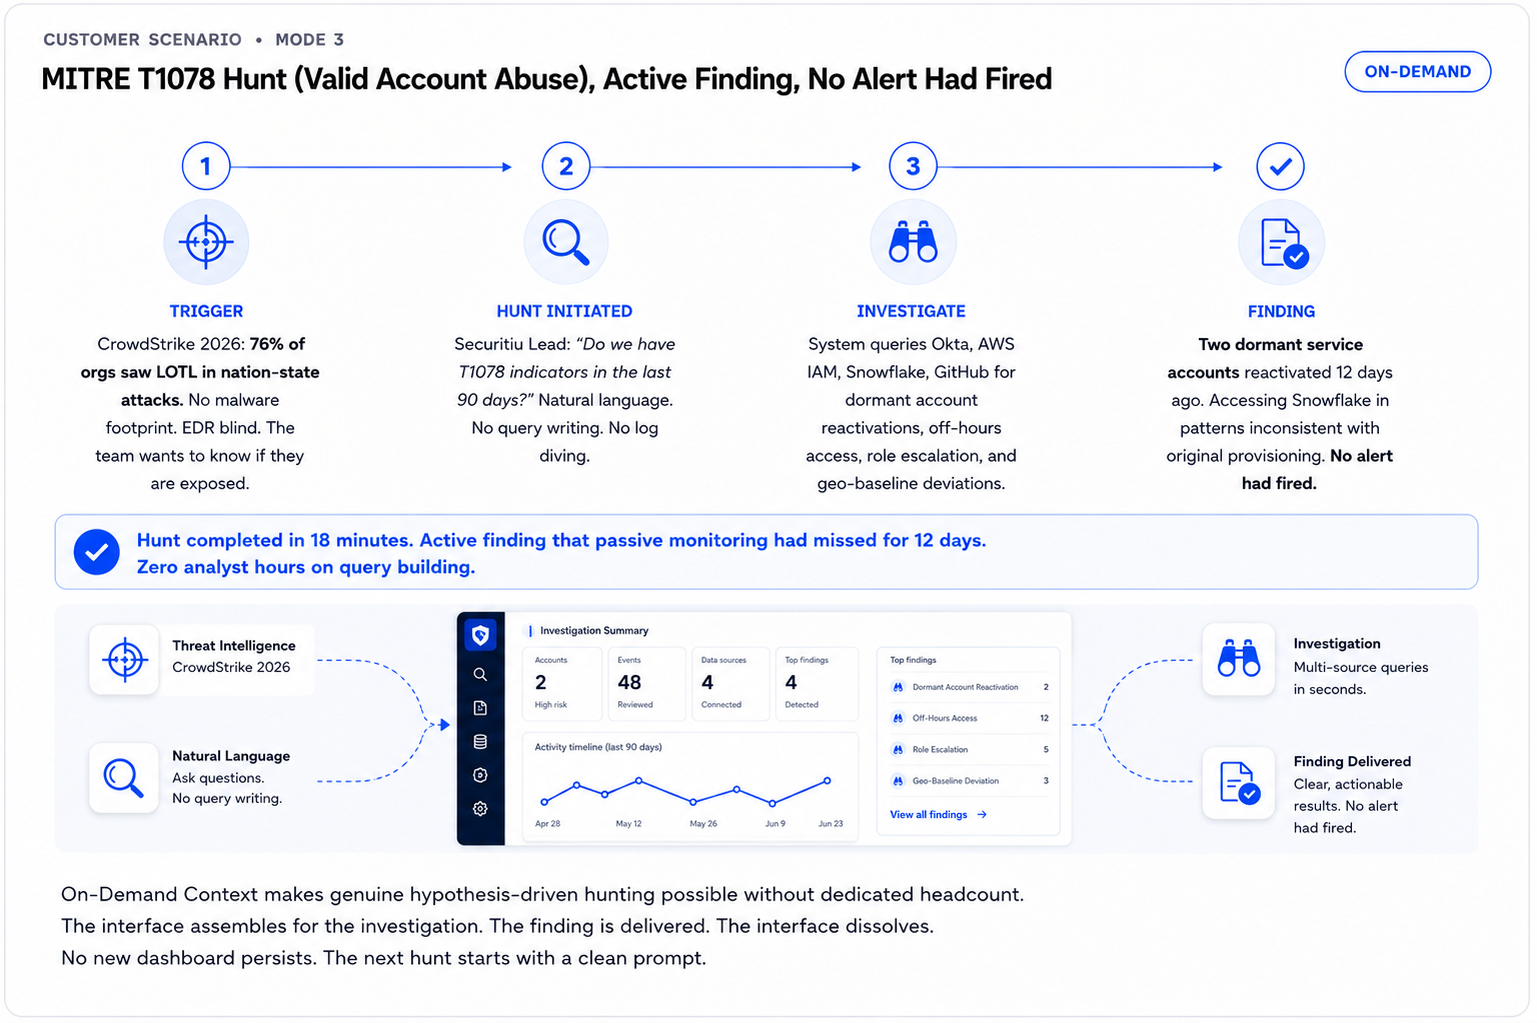
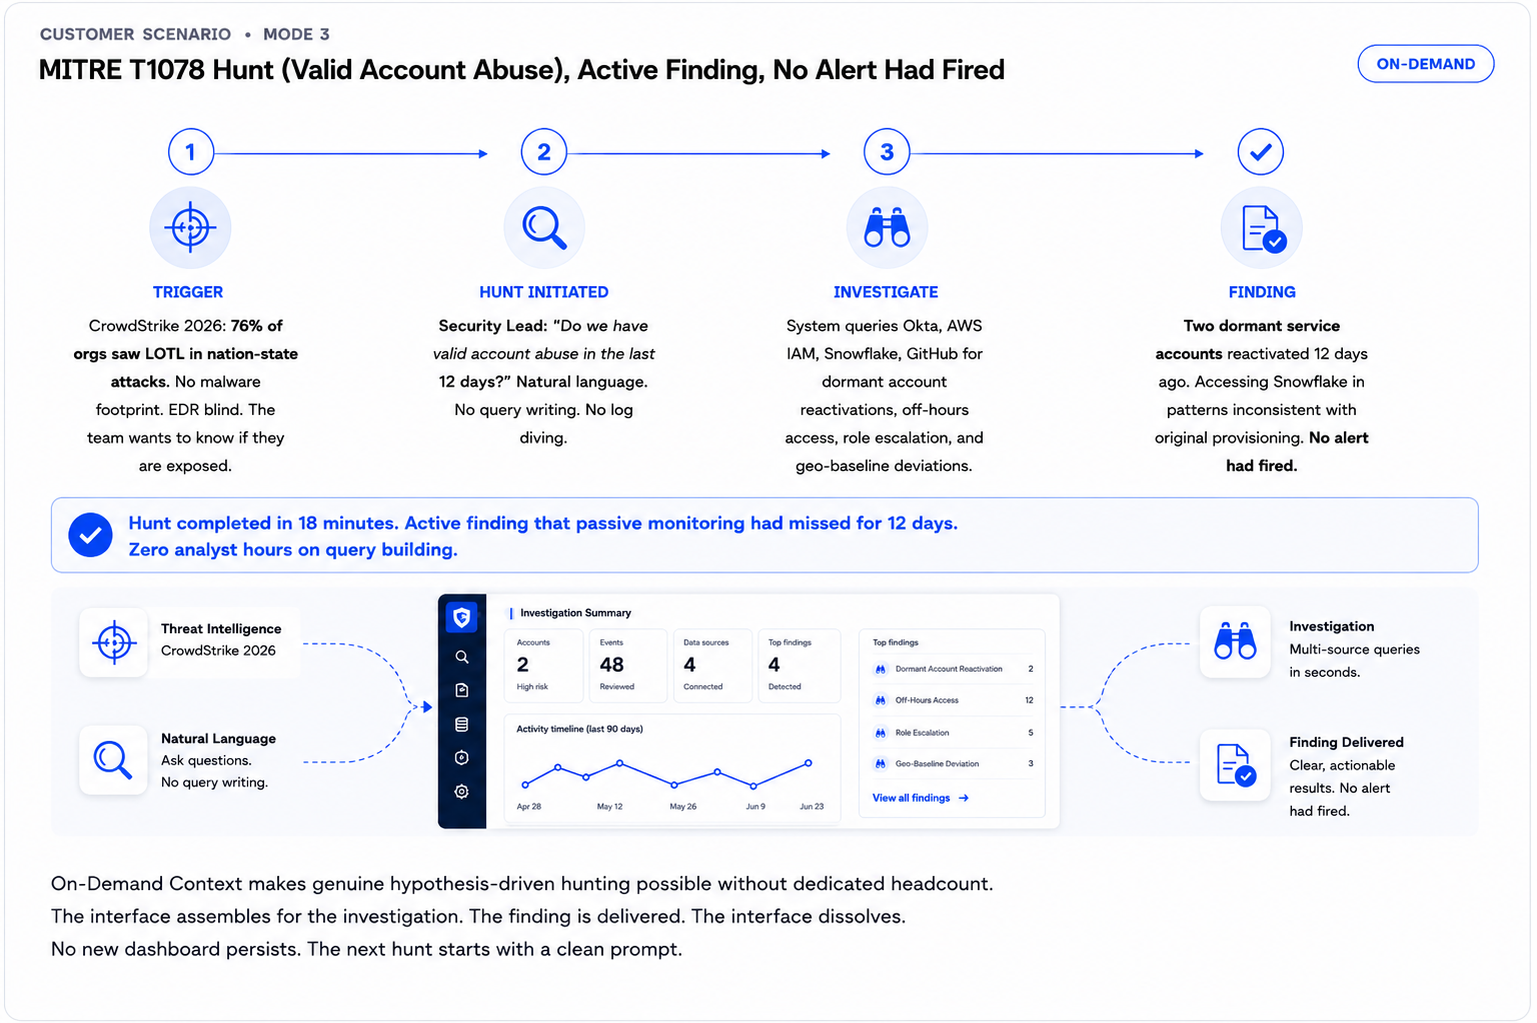
typo mistake, hyperlink added , Secondary CTA changed actionable secops Post

diff --git a/src/app/globals.css b/src/app/globals.css
@@ -1857,7 +1857,7 @@ h6,
 }
 
 .blog-post-prose .cta-inner h2 {
-  font-size: 2.25rem;
+  font-size: 1.875rem;
   color: #FFFFFF;
   margin-top: 0;
   margin-bottom: 12px;
@@ -1877,7 +1877,7 @@ h6,
 
 .blog-post-prose .cta-btn-lg {
   display: inline-block;
-  padding: 16px 56px;
+  padding: 14px 40px;
   background: #FFFFFF;
   color: #0D41E1;
   font-weight: 800;
@@ -1919,5 +1919,14 @@ h6,
   }
   .blog-post-prose .cta-inner {
     padding: 40px 24px;
+  }
+  .blog-post-prose .cta-inner h2 {
+    font-size: 1.5rem;
+  }
+  .blog-post-prose .cta-btn-lg {
+    padding: 12px 24px;
+    font-size: 14px;
+    width: 100%;
+    text-align: center;
   }
 }

diff --git a/src/app/blog/postsData.ts b/src/app/blog/postsData.ts
@@ -624,6 +624,6 @@ export const postsData: BlogPost[] = [
         "title": "The Destination: Path to Cognitive Harmony"
       }
     ],
-    "body": "<!-- 01 GAP -->\n  <h2 id=\"gap\">The Problem: The Gap AI Triage Did Not Close</h2>\n\n  <p class=\"lead-p\">The first wave of AI in security operations promised to fix alert fatigue. It did not. It moved the problem one layer up.</p>\n\n  <p>What the industry delivered was faster triage: AI that classifies alerts more quickly and enriches them with more context before they reach an analyst. Useful. Not sufficient. The unit of work is still the alert. A human still has to open it, evaluate it, and decide what to do. The queue still grows. The analyst still burns out. And the problem the team was hired to solve, actual threats, still competes for attention with the noise the system continues to produce.</p>\n\n  <img src=\"/blog/The-Gap-AI-Triage-Did-Not-Close.png\" alt=\"The Gap AI Triage Did Not Close\" style=\"width:100%;border-radius:12px;margin:32px 0;display:block;\" />\n\n  <div class=\"stat-row\">\n    <div class=\"stat-cell\">\n      <span class=\"stat-n\">46%</span>\n      <div class=\"stat-l\">of all alerts are false positives and 42% go entirely uninvestigated, even in SOCs running AI triage tools<span class=\"stat-src\">Microsoft / Omdia · State of the SOC 2026</span></div>\n    </div>\n    <div class=\"stat-cell\">\n      <span class=\"stat-n\">15</span>\n      <div class=\"stat-l\">distinct attack techniques are now being actively bolstered by generative AI, from spotting security gaps to writing malware<span class=\"stat-src\">Verizon DBIR · 2025</span></div>\n    </div>\n    <div class=\"stat-cell\">\n      <span class=\"stat-n\">44%</span>\n      <div class=\"stat-l\">of vulnerabilities are now exploited within 24 hours of public disclosure. The patch window has collapsed.<span class=\"stat-src\">Palo Alto Unit 42 · zerodayclock.com </span></div>\n    </div>\n  </div>\n\n  <p>AI triage did not move these numbers. Nearly half of all alerts are still false positives in teams already running AI tooling. GenAI has given threat actors an acceleration layer across every stage of an attack. And for four in ten known vulnerabilities, the window between disclosure and active exploitation is now under a day. The gap between attacker speed and defender capacity is not a tooling gap. <strong>It is an architecture gap.</strong></p>\n\n  <p>AI triage improved how fast the queue moves. It did not redesign what the queue is. Actionable SecOps redesigns the queue by making \"who should handle this signal\" the system's job, not the analyst's.</p>\n\n\n  <!-- 02 HOTL -->\n  <h2 id=\"hotl\">The Distinction: Human On the Loop, Not In It</h2>\n\n  <p>Most AI security tools are built around <strong>Human in the Loop</strong>. The AI works, surfaces a result, and waits for a human to proceed. Every alert, every enrichment, every proposed action: the human is inserted as a checkpoint between input and output. The system cannot close anything without them stepping in.</p>\n\n  <p>This is not a design philosophy. It is a constraint the industry dressed up as a feature.</p>\n\n  <p><strong>Human on the Loop</strong> is different. The system acts autonomously on decisions it can make with confidence. The human is not removed. They are watching, they can intervene, and they are called in for decisions that genuinely require judgment. The difference is not human involvement versus no human involvement. The difference is <em>where</em> in the workflow the human sits.</p>\n\n  <img src=\"/blog/Human-On-the-Loop%2C-Not-In-It.png\" alt=\"Human On the Loop, Not In It\" style=\"width:100%;border-radius:12px;margin:32px 0;display:block;\" />\n\n  <p>This is not philosophical. It is operational. It is what separates a tool that improves analyst efficiency from a system that changes what a lean team can actually protect.</p>\n\n\n  <!-- 03 DEFINITION -->\n  <h2 id=\"definition\">The Principle: What Actionable SecOps Actually Means</h2>\n\n  <p>The word \"actionable\" has been hollowed out by vendor marketing. Every SIEM dashboard claims actionable intelligence. Every MDR pitch deck ends with actionable insights. What they deliver is faster visibility, which is useful, but visibility without a closed loop is just a better view of a problem the team still cannot resolve fast enough.</p>\n\n  <blockquote>\n    Actionable means the outcome is delivered, not the problem surfaced. The loop closes. Something is done. Not queued.\n  </blockquote>\n\n  <div class=\"pbox\">\n    <div class=\"pbox-lbl\">The Actionability Test</div>\n    <p>For any security signal, ask: <strong>does the system close the loop, or does it hand off?</strong> If the answer is hand off, to a queue, a ticket, a dashboard, a notification, the system is not actionable. Actionable means an outcome is delivered with the minimum human involvement the decision actually requires, not the maximum the architecture assumes.</p>\n  </div>\n\n  <p>Actionable SecOps maps across three modes, introduced in the <a href=\"https://www.trenchsecurity.ai/blog/introducing-headless-secops-for-the-agentic-world\" style=\"color:#0D41E1\">Headless SecOps post</a>. Each mode represents a different class of decision and a different level of human involvement. The scenarios below are drawn from what we see running across our customer environments every day.</p>\n\n  <div class=\"sep\"></div>\n\n\n  <!-- MODE 1 -->\n  <h2 id=\"mode1\">Mode 1: Zero UI</h2>\n  <p><strong>Agent acts. No human required.</strong> Detection, enrichment, and response run fully in the background. The outcome is delivered. The team is notified of what happened, not asked to act on what might.</p>\n\n  <p>Zero UI covers the majority of signals in any well-instrumented environment: recurring false positive patterns, known service account behaviours, confirmed low-risk events where the correct action is unambiguous. These should never reach an analyst queue. The system closes them, logs the reasoning, and moves on.</p>\n\n  <h3>Customer Scenario : Scheduled Scan Misread as Reconnaissance</h3>\n\n  <img src=\"/blog/Scheduled-Scan-Misread-as-Reconnaissance.png\" alt=\"Scheduled Scan Misread as Reconnaissance\" style=\"width:100%;border-radius:12px;margin:32px 0;display:block;\" />\n\n  <h3>Customer Scenario : API Key Exposed in a Public Repo, Rotated Before It Is Exploited</h3>\n\n  <img src=\"/blog/customer-scenario-API-Key-Exposed.png\" alt=\"API Key Exposed in a Public Repo\" style=\"width:100%;border-radius:12px;margin:32px 0;display:block;\" />\n\n\n  <!-- MODE 2 -->\n  <h2 id=\"mode2\">Mode 2: Conversational</h2>\n  <p><strong>Agent surfaces. Human approves.</strong> High-signal events that require a judgment call route directly to the right person in Slack, Teams, or Claude, with full context assembled and the decision pre-framed. One interaction. Loop closed.</p>\n\n  <p>Conversational mode is where Human on the Loop looks most different from Human in the Loop. The analyst is not opening a console, pivoting across tools, or reconstructing a timeline. The system has done all of that and arrived with a framed decision. The human's job is judgment, not investigation. Two very different things.</p>\n\n  <h3>Impossible Travel: The Agent Asks the User Directly</h3>\n\n  <img src=\"/blog/customer-scenario-conversational-mode-01.png\" alt=\"Impossible Travel\" style=\"width:100%;border-radius:12px;margin:32px 0;display:block;\" />\n\n  <h3>Lateral Movement at 1 AM: On-Call Gets the Decision, Not the Discovery</h3>\n\n  <img src=\"/blog/customer-scenario-conversational-mode-02.png\" alt=\"Lateral Movement\" style=\"width:100%;border-radius:12px;margin:32px 0;display:block;\" />\n\n\n  <!-- MID CTA -->\n  <div class=\"mid-cta\">\n    <p>We fix the first blind spot in the first 48 hours.</p>\n    <a class=\"mid-cta-btn\" href=\"https://www.trenchsecurity.ai/connect\">See it live →</a>\n  </div>\n\n\n  <!-- MODE 3 -->\n  <h2 id=\"mode3\">Mode 3: On-Demand Context</h2>\n  <p><strong>Human leads. Context generated.</strong> For complex unknowns and proactive work, the system assembles full context on demand, surfaces what passive monitoring missed, proposes actions, and dissolves when the decision is made. No new dashboard. No persistent console.</p>\n\n  <p>On-Demand Context covers the work lean teams know they should be doing but rarely have capacity for: threat hunting, deep-dive investigations, DLP analysis. SANS data confirms what we hear from customers: 85% of SOCs remain purely reactive, with what most teams call \"threat hunting\" often being retroactive analysis after an alert has already fired. These are the tasks that require querying across multiple systems, correlating signals over time, and building a picture from partial evidence. All scarce resources on a lean team.</p>\n\n  <h3>Customer Scenario : Departing Employee Data Exfiltration, Caught Mid-Flight</h3>\n\n  <img src=\"/blog/customer-scenario-ondemand-mode-01.png\" alt=\"Departing Employee Data Exfiltration\" style=\"width:100%;border-radius:12px;margin:32px 0;display:block;\" />\n\n  <h3>Living-Off-the-Land Hunt: Finding What Passive Detection Missed for 12 Days</h3>\n\n  <img src=\"/blog/customer-scenario-ondemand-mode-02.png\" alt=\"Living-Off-the-Land Hunt\" style=\"width:100%;border-radius:12px;margin:32px 0;display:block;\" />\n\n\n <h2 id=\"infra\">The Foundation: The Infrastructure Behind It</h2>\n\n  <p>Every scenario above depends on something that cannot be bolted onto an existing platform. Closing loops in real time, across cloud, endpoint, identity, SaaS, and network, while maintaining enough environmental context to distinguish a legitimate nightly job from reconnaissance, requires infrastructure built specifically for actionability. Not visibility. Not triage. Actionability.</p>\n\n  <p>Most SIEM architectures were built to ingest and store. Data flows in, rules fire, alerts are created, humans pick them up. The system's job ends at the alert. Everything after that is a human problem. That architecture was appropriate for an era when threats moved slowly and security teams were large. Neither is true now.</p>\n\n  <p>Trench is built differently, from the data layer up:</p>\n\n  <img src=\"/blog/Infrastructure-Behind-Actionable-SecOps.png\" alt=\"Infrastructure Behind Actionable SecOps\" style=\"width:100%;border-radius:12px;margin:32px 0;display:block;\" />\n\n  <p>Without all three layers, you have a better SIEM. With all three, you have Actionable SecOps. The difference is not a feature. It is what the system is fundamentally designed to do.</p>\n\n\n  <h2 id=\"closing\">The Destination: Path to Cognitive Harmony</h2>\n\n  <p>In the Headless SecOps post, we named the real disease: <em>\"Alert fatigue is the symptom. Cognitive overload is the disease.\"</em> The context-switching across six consoles. The manual stitching of signals that should already be correlated. The high-stakes decisions made under time pressure at 11 PM. The queue that resets every morning like nothing happened the night before.</p>\n\n  <p>AI triage addressed the symptom, not the disease. It made the overload faster. More enriched alerts to open. More classified noise to dismiss. The analyst is still in the middle of every decision, still the bridge between detection and outcome.</p>\n\n  <p>Cognitive harmony is not a lighter queue. It is a different architecture. The system handles the throughput. The analyst handles the judgment. Not because the analyst has been removed, but because the system finally puts them where their judgment is irreplaceable and removes them from everywhere it is not.</p>\n\n  <blockquote>\n    You cannot patch your way out of a design flaw. The design flaw in modern security operations is the assumption that a human must bridge every gap between signal and outcome. Actionable SecOps removes that assumption.\n  </blockquote>\n\n  <p>The scenarios above are not projections. They are what cognitive harmony looks like in a real environment: the false positive closed at machine speed, the lateral movement surfaced with the decision pre-framed, the exfiltration caught mid-download, the hunt finding what 12 days of alerts missed. Not a better alert. A closed loop.</p>\n\n  <p>This is your Trench.</p>\n\n  <!-- FINAL CTA -->\n  <div class=\"cta-block\">\n    <div class=\"cta-inner\">\n      <div class=\"cta-lbl\">Ready?</div>\n      <h2>Close Your Loop with Trench</h2>\n      <p>Connect your environment and see actionable SecOps running in your actual stack. The first closed loop is the proof of concept.</p>\n      <a class=\"cta-btn-lg\" href=\"https://www.trenchsecurity.ai/connect\">Close Your First Loop →</a>\n      <div class=\"cta-sub\">No commitment · Your stack · First detection under 48 hrs</div>\n    </div>\n  </div>"
+    "body": "<!-- 01 GAP -->\n  <h2 id=\"gap\">The Problem: The Gap AI Triage Did Not Close</h2>\n\n  <p class=\"lead-p\">The first wave of AI in security operations promised to fix alert fatigue. It did not. It moved the problem one layer up.</p>\n\n  <p>What the industry delivered was faster triage: AI that classifies alerts more quickly and enriches them with more context before they reach an analyst. Useful. Not sufficient. The unit of work is still the alert. A human still has to open it, evaluate it, and decide what to do. The queue still grows. The analyst still burns out. And the problem the team was hired to solve, actual threats, still competes for attention with the noise the system continues to produce.</p>\n\n  <img src=\"/blog/The-Gap-AI-Triage-Did-Not-Close.png\" alt=\"The Gap AI Triage Did Not Close\" style=\"width:100%;border-radius:12px;margin:32px 0;display:block;\" />\n\n  <div class=\"stat-row\">\n    <div class=\"stat-cell\">\n      <span class=\"stat-n\">46%</span>\n      <div class=\"stat-l\">of all alerts are false positives and 42% go entirely uninvestigated, even in SOCs running AI triage tools<span class=\"stat-src\">Microsoft / Omdia · State of the SOC 2026</span></div>\n    </div>\n    <div class=\"stat-cell\">\n      <span class=\"stat-n\">15</span>\n      <div class=\"stat-l\">distinct attack techniques are now being actively bolstered by generative AI, from spotting security gaps to writing malware<span class=\"stat-src\">Verizon DBIR · 2025</span></div>\n    </div>\n    <div class=\"stat-cell\">\n      <span class=\"stat-n\">44%</span>\n      <div class=\"stat-l\">of vulnerabilities are now exploited within 24 hours of public disclosure. The patch window has collapsed.<span class=\"stat-src\">Palo Alto Unit 42 · zerodayclock.com </span></div>\n    </div>\n  </div>\n\n  <p>AI triage did not move these numbers. Nearly half of all alerts are still false positives in teams already running AI tooling. GenAI has given threat actors an acceleration layer across every stage of an attack. And for four in ten known vulnerabilities, the window between disclosure and active exploitation is now under a day. The gap between attacker speed and defender capacity is not a tooling gap. <strong>It is an architecture gap.</strong></p>\n\n  <p>AI triage improved how fast the queue moves. It did not redesign what the queue is. Actionable SecOps redesigns the queue by making \"who should handle this signal\" the system's job, not the analyst's.</p>\n\n\n  <!-- 02 HOTL -->\n  <h2 id=\"hotl\">The Distinction: Human On the Loop, Not In It</h2>\n\n  <p>Most AI security tools are built around <strong>Human in the Loop</strong>. The AI works, surfaces a result, and waits for a human to proceed. Every alert, every enrichment, every proposed action: the human is inserted as a checkpoint between input and output. The system cannot close anything without them stepping in.</p>\n\n  <p>This is not a design philosophy. It is a constraint the industry dressed up as a feature.</p>\n\n  <p><strong>Human on the Loop</strong> is different. The system acts autonomously on decisions it can make with confidence. The human is not removed. They are watching, they can intervene, and they are called in for decisions that genuinely require judgment. The difference is not human involvement versus no human involvement. The difference is <em>where</em> in the workflow the human sits.</p>\n\n  <img src=\"/blog/Human-On-the-Loop%2C-Not-In-It.png\" alt=\"Human On the Loop, Not In It\" style=\"width:100%;border-radius:12px;margin:32px 0;display:block;\" />\n\n  <p>This is not philosophical. It is operational. It is what separates a tool that improves analyst efficiency from a system that changes what a lean team can actually protect.</p>\n\n\n  <!-- 03 DEFINITION -->\n  <h2 id=\"definition\">The Principle: What Actionable SecOps Actually Means</h2>\n\n  <p>The word \"actionable\" has been hollowed out by vendor marketing. Every SIEM dashboard claims actionable intelligence. Every MDR pitch deck ends with actionable insights. What they deliver is faster visibility, which is useful, but visibility without a closed loop is just a better view of a problem the team still cannot resolve fast enough.</p>\n\n  <blockquote>\n    Actionable means the outcome is delivered, not the problem surfaced. The loop closes. Something is done. Not queued.\n  </blockquote>\n\n  <div class=\"pbox\">\n    <div class=\"pbox-lbl\">The Actionability Test</div>\n    <p>For any security signal, ask: <strong>does the system close the loop, or does it hand off?</strong> If the answer is hand off, to a queue, a ticket, a dashboard, a notification, the system is not actionable. Actionable means an outcome is delivered with the minimum human involvement the decision actually requires, not the maximum the architecture assumes.</p>\n  </div>\n\n  <p>Actionable SecOps maps across three modes, introduced in the <a href=\"https://www.trenchsecurity.ai/blog/introducing-headless-secops-for-the-agentic-world\" style=\"color:#0D41E1\">Headless SecOps post</a>. Each mode represents a different class of decision and a different level of human involvement. The scenarios below are drawn from what we see running across our customer environments every day.</p>\n\n  <div class=\"sep\"></div>\n\n\n  <!-- MODE 1 -->\n  <h2 id=\"mode1\">Mode 1: Zero UI</h2>\n  <p><strong>Agent acts. No human required.</strong> Detection, enrichment, and response run fully in the background. The outcome is delivered. The team is notified of what happened, not asked to act on what might.</p>\n\n  <p>Zero UI covers the majority of signals in any well-instrumented environment: recurring false positive patterns, known service account behaviours, confirmed low-risk events where the correct action is unambiguous. These should never reach an analyst queue. The system closes them, logs the reasoning, and moves on.</p>\n\n  <h3>Customer Scenario : Scheduled Scan Misread as Reconnaissance</h3>\n\n  <img src=\"/blog/Scheduled-Scan-Misread-as-Reconnaissance.png\" alt=\"Scheduled Scan Misread as Reconnaissance\" style=\"width:100%;border-radius:12px;margin:32px 0;display:block;\" />\n\n  <h3>Customer Scenario : API Key Exposed in a Public Repo, Rotated Before It Is Exploited</h3>\n\n  <img src=\"/blog/customer-scenario-API-Key-Exposed.png\" alt=\"API Key Exposed in a Public Repo\" style=\"width:100%;border-radius:12px;margin:32px 0;display:block;\" />\n\n\n  <!-- MODE 2 -->\n  <h2 id=\"mode2\">Mode 2: Conversational</h2>\n  <p><strong>Agent surfaces. Human approves.</strong> High-signal events that require a judgment call route directly to the right person in Slack, Teams, or Claude, with full context assembled and the decision pre-framed. One interaction. Loop closed.</p>\n\n  <p>Conversational mode is where Human on the Loop looks most different from Human in the Loop. The analyst is not opening a console, pivoting across tools, or reconstructing a timeline. The system has done all of that and arrived with a framed decision. The human's job is judgment, not investigation. Two very different things.</p>\n\n  <h3>Impossible Travel: The Agent Asks the User Directly</h3>\n\n  <img src=\"/blog/customer-scenario-conversational-mode-01.png\" alt=\"Impossible Travel\" style=\"width:100%;border-radius:12px;margin:32px 0;display:block;\" />\n\n  <h3>Lateral Movement at 1 AM: On-Call Gets the Decision, Not the Discovery</h3>\n\n  <img src=\"/blog/customer-scenario-conversational-mode-02.png\" alt=\"Lateral Movement\" style=\"width:100%;border-radius:12px;margin:32px 0;display:block;\" />\n\n\n  <!-- MID CTA -->\n  <div class=\"mid-cta\">\n    <p>We fix the first blind spot in the first 48 hours.</p>\n    <a class=\"mid-cta-btn\" href=\"https://www.trenchsecurity.ai/connect\">See it live →</a>\n  </div>\n\n\n  <!-- MODE 3 -->\n  <h2 id=\"mode3\">Mode 3: On-Demand Context</h2>\n  <p><strong>Human leads. Context generated.</strong> For complex unknowns and proactive work, the system assembles full context on demand, surfaces what passive monitoring missed, proposes actions, and dissolves when the decision is made. No new dashboard. No persistent console.</p>\n\n  <p>On-Demand Context covers the work lean teams know they should be doing but rarely have capacity for: threat hunting, deep-dive investigations, DLP analysis. SANS data confirms what we hear from customers: 85% of SOCs remain purely reactive, with what most teams call \"threat hunting\" often being retroactive analysis after an alert has already fired. These are the tasks that require querying across multiple systems, correlating signals over time, and building a picture from partial evidence. All scarce resources on a lean team.</p>\n\n  <h3>Customer Scenario : Departing Employee Data Exfiltration, Caught Mid-Flight</h3>\n\n  <img src=\"/blog/customer-scenario-ondemand-mode-01.png\" alt=\"Departing Employee Data Exfiltration\" style=\"width:100%;border-radius:12px;margin:32px 0;display:block;\" />\n\n  <h3>Living-Off-the-Land Hunt: Finding What Passive Detection Missed for 12 Days</h3>\n\n  <img src=\"/blog/customer-scenario-ondemand-mode-02.png\" alt=\"Living-Off-the-Land Hunt\" style=\"width:100%;border-radius:12px;margin:32px 0;display:block;\" />\n\n\n <h2 id=\"infra\">The Foundation: The Infrastructure Behind It</h2>\n\n  <p>Every scenario above depends on something that cannot be bolted onto an existing platform. Closing loops in real time, across cloud, endpoint, identity, SaaS, and network, while maintaining enough environmental context to distinguish a legitimate nightly job from reconnaissance, requires infrastructure built specifically for actionability. Not visibility. Not triage. Actionability.</p>\n\n  <p>Most SIEM architectures were built to ingest and store. Data flows in, rules fire, alerts are created, humans pick them up. The system's job ends at the alert. Everything after that is a human problem. That architecture was appropriate for an era when threats moved slowly and security teams were large. Neither is true now. <a href=\"https://www.trenchsecurity.ai/blog/ai-in-the-security-operations-clearing-the-clutter\" style=\"color:#0D41E1\">Learn more from our previous post.</a></p>\n\n  <p>Trench is built differently, from the data layer up:</p>\n\n  <img src=\"/blog/Infrastructure-Behind-Actionable-SecOps.png\" alt=\"Infrastructure Behind Actionable SecOps\" style=\"width:100%;border-radius:12px;margin:32px 0;display:block;\" />\n\n  <p>Without all three layers, you have a better SIEM. With all three, you have Actionable SecOps. The difference is not a feature. It is what the system is fundamentally designed to do.</p>\n\n\n  <h2 id=\"closing\">The Destination: Path to Cognitive Harmony</h2>\n\n  <p><a href=\"https://www.trenchsecurity.ai/blog/introducing-headless-secops-for-the-agentic-world\" style=\"color:#0D41E1\">In the Headless SecOps post</a>, we named the real disease: <em>\"Alert fatigue is the symptom. Cognitive overload is the disease.\"</em> The context-switching across six consoles. The manual stitching of signals that should already be correlated. The high-stakes decisions made under time pressure at 11 PM. The queue that resets every morning like nothing happened the night before.</p>\n\n  <p>AI triage addressed the symptom, not the disease. It made the overload faster. More enriched alerts to open. More classified noise to dismiss. The analyst is still in the middle of every decision, still the bridge between detection and outcome.</p>\n\n  <p>Cognitive harmony is not a lighter queue. It is a different architecture. The system handles the throughput. The analyst handles the judgment. Not because the analyst has been removed, but because the system finally puts them where their judgment is irreplaceable and removes them from everywhere it is not.</p>\n\n  <blockquote>\n    You cannot patch your way out of a design flaw. The design flaw in modern security operations is the assumption that a human must bridge every gap between signal and outcome. Actionable SecOps removes that assumption.\n  </blockquote>\n\n  <p>The scenarios above are not projections. They are what cognitive harmony looks like in a real environment: the false positive closed at machine speed, the lateral movement surfaced with the decision pre-framed, the exfiltration caught mid-download, the hunt finding what 12 days of alerts missed. Not a better alert. A closed loop.</p>\n\n  <p>This is your Trench.</p>\n\n  <!-- FINAL CTA -->\n  <div class=\"cta-block\">\n    <div class=\"cta-inner\">\n      <h2>Trench fixes your blindspots in minutes.</h2>\n      <a class=\"cta-btn-lg\" href=\"https://www.trenchsecurity.ai/connect\">See it Live.</a>\n    </div>\n  </div>"
   }
 ]